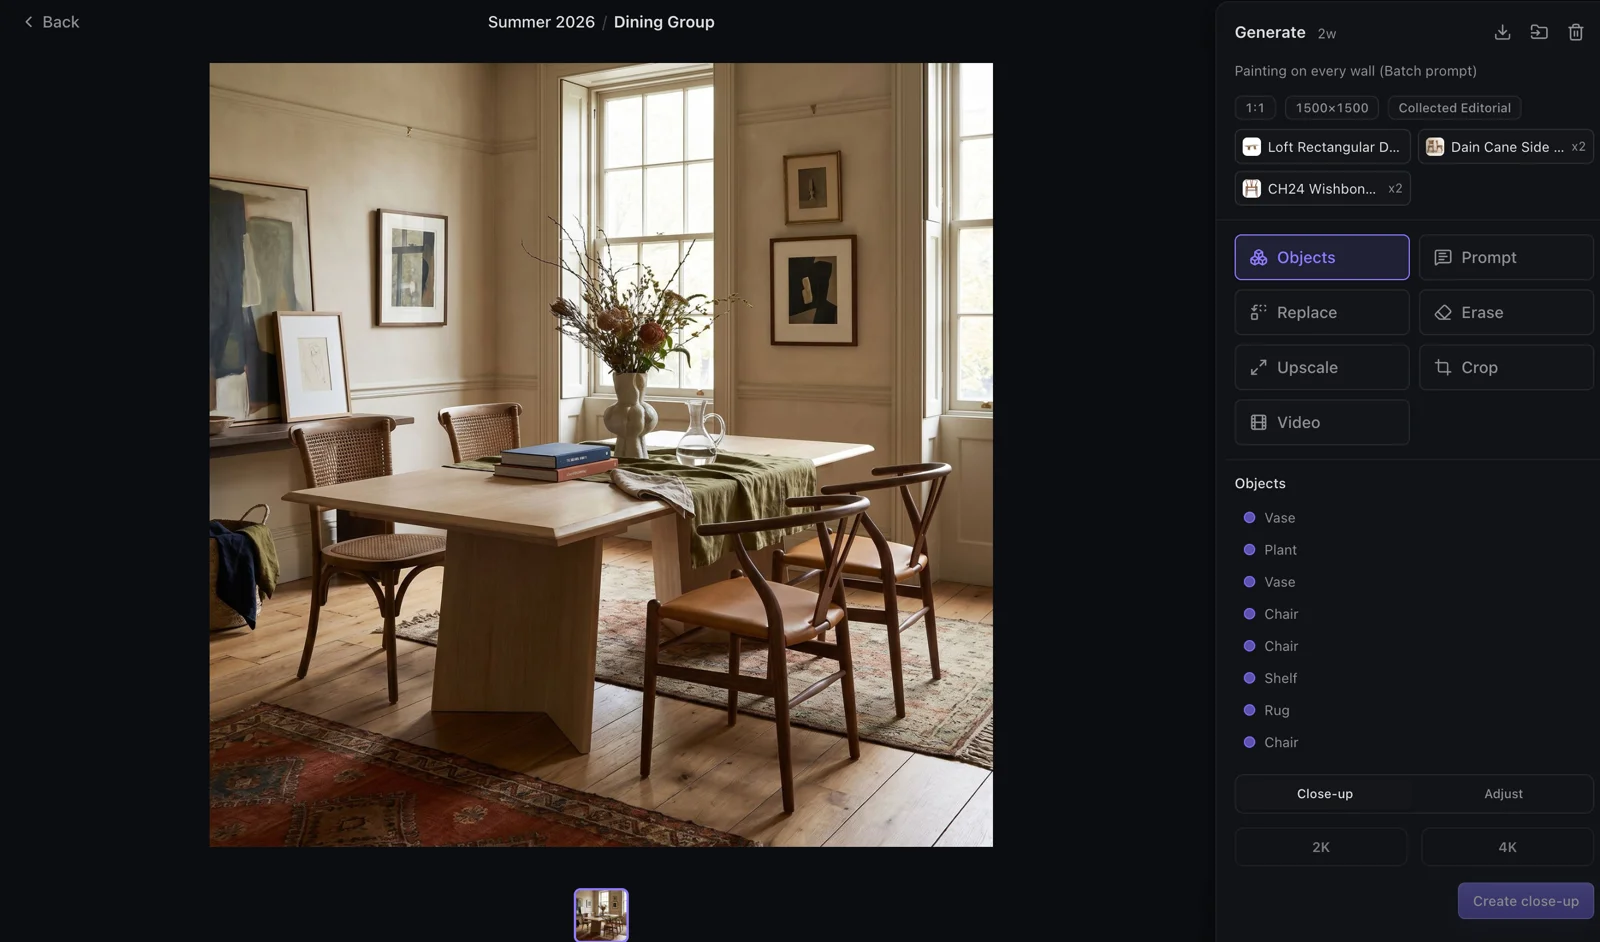
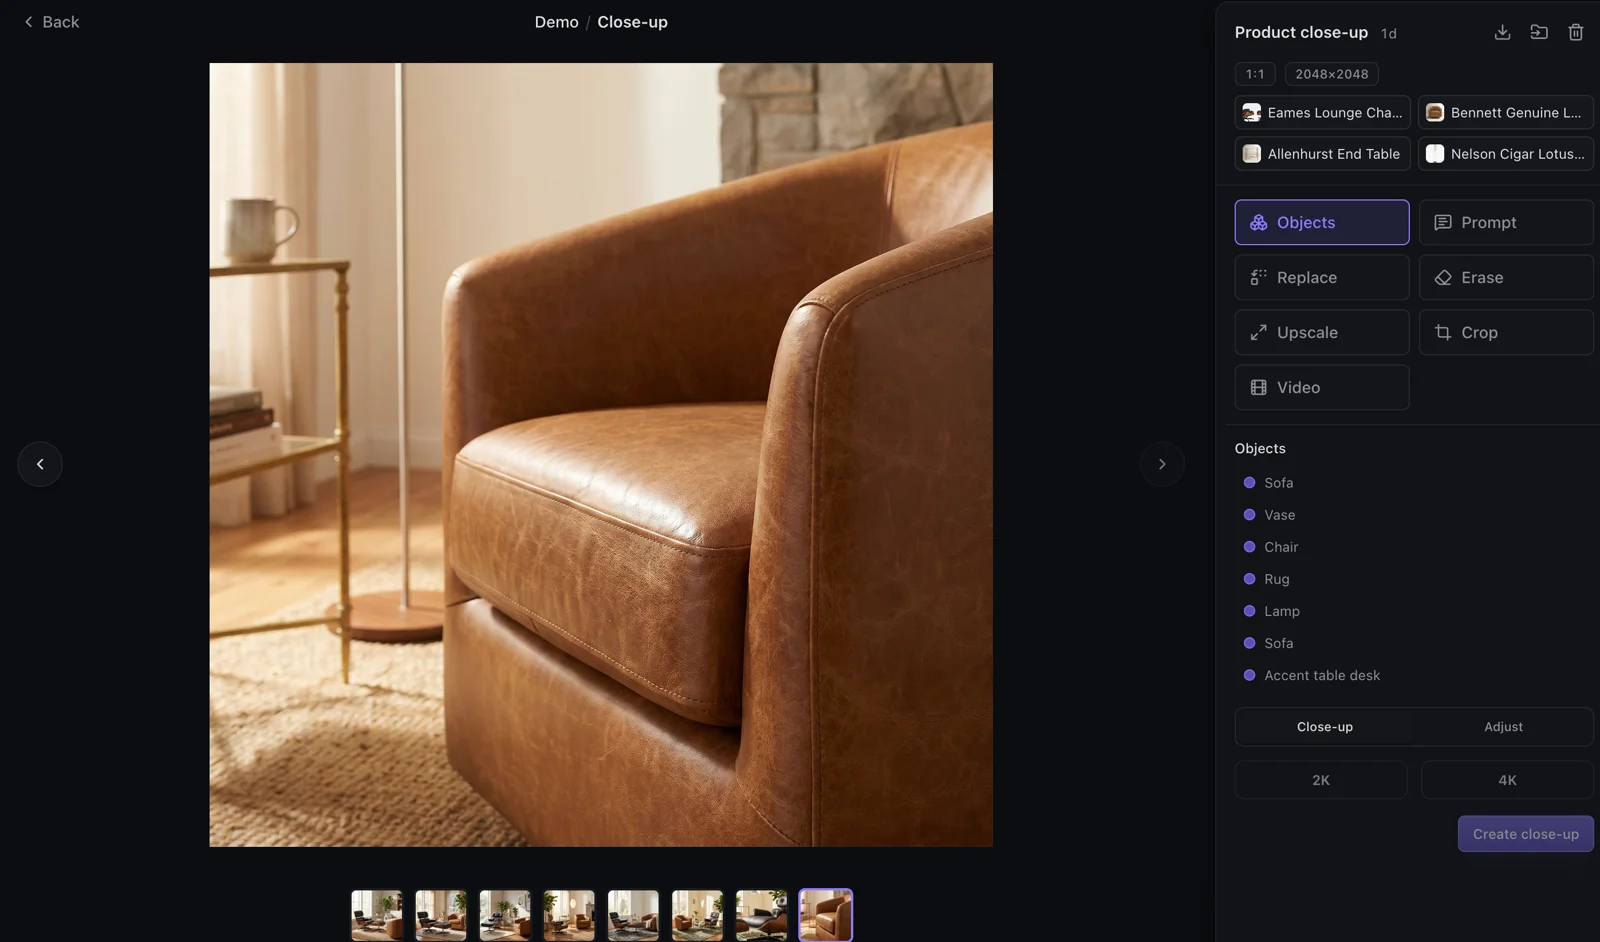
DecorX: the close-up still shows an actual close-up
Swapped for the changelog's other May 2026 screenshot, a 2048 x 2048 close-up of a leather armchair made from an object DecorX found in the room, in the same dark edit view.

diff --git a/app/work/decorx/page.tsx b/app/work/decorx/page.tsx
@@ -45,8 +45,8 @@ const SECTIONS = [
 
 /**
  * The edit view. 2025: his Edit Image Loom of 16 May 2025, at 2:43 and 4:31, cropped to the design. 2026: the
- * changelog's screenshots of 28 May 2026: Designer with room cleaning and virtual staging, and the Batch edit view
- * with close-ups from detected objects. Both dark, at his call; the Compare view (Oct 2026) came out as too new.
+ * changelog's screenshots of 28 May 2026: Designer with room cleaning and virtual staging, and a product close-up
+ * made from a detected object. Both dark, at his call; the Compare view (Oct 2026) came out as too new.
  */
 const EDITOR: Still[] = [
   {
@@ -81,9 +81,9 @@ const EDITOR: Still[] = [
     src: "editor-2026-closeup.webp",
     width: 1600,
     height: 942,
-    alt: "A dining room in DecorX's dark edit view, with the objects it found in the image listed beside it and 2K and 4K close-up options",
+    alt: "A close-up of a leather armchair in DecorX's dark edit view, with the objects found in the room listed beside it",
     title: "Close-ups, 2026",
-    text: "Pick an object DecorX found in the image, such as a chair or a rug, and make a close-up of it at 2K or 4K.",
+    text: "Pick an object DecorX found in a room, such as a chair, and it makes a close-up of that product at 2K or 4K.",
   },
 ];
 
